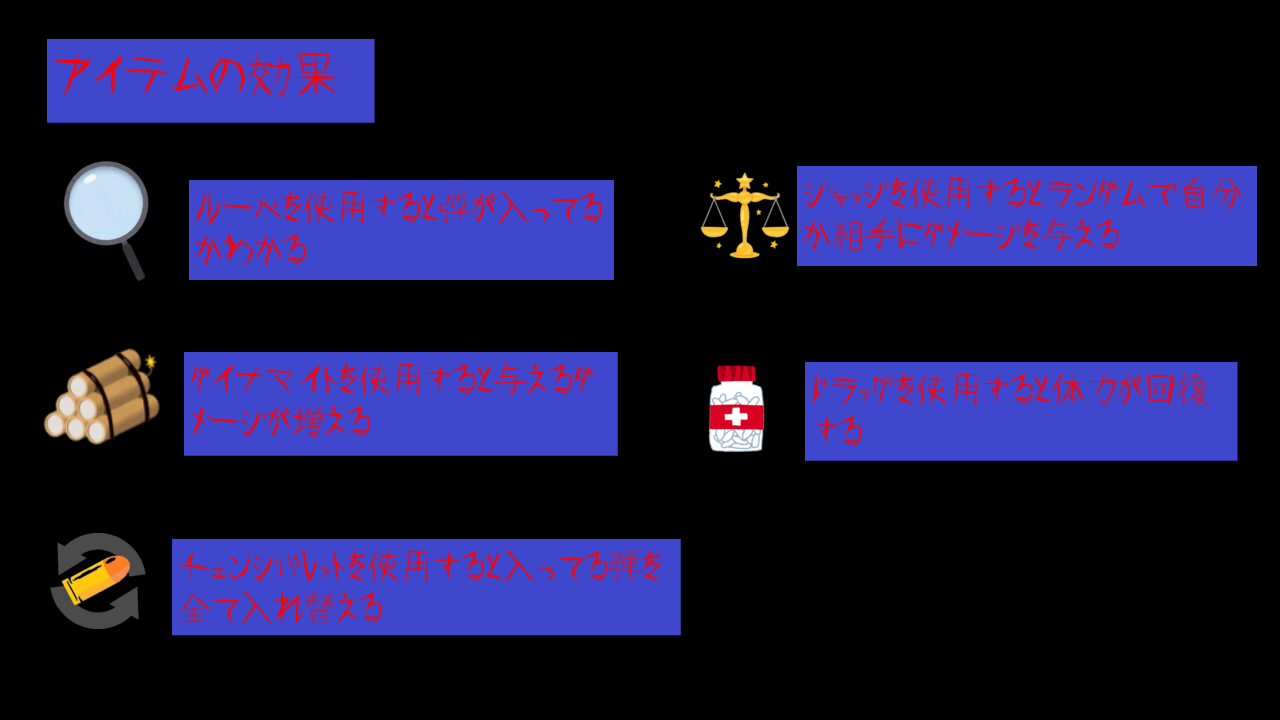
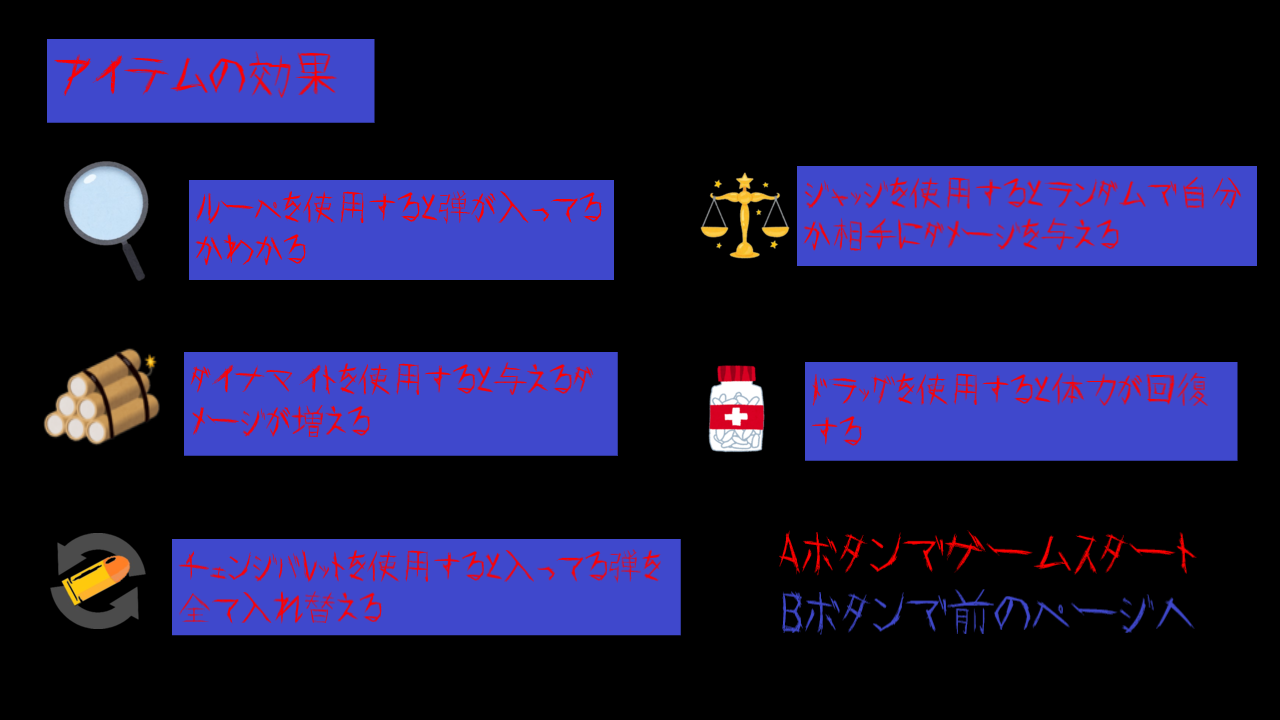
2ページ目のヘルプシーン作成

Changed region(s): [[0.5938, 0.825, 0.9375, 0.8861], [0.5938, 0.7333, 0.875, 0.7944], [0.9062, 0.7333, 0.9375, 0.7944]]

diff --git a/RousianRoulette/HelpScene2.cpp b/RousianRoulette/HelpScene2.cpp
@@ -6,24 +6,25 @@
 #include"Title.h"
 #include "DrawRanking.h"
 
+Title title;
 
-HelpScene::HelpScene()
+HelpScene2::HelpScene2()
 {
-	image = LoadGraph("Resources/images/HelpScene.png");
+	image = LoadGraph("Resources/images/HelpScene2.png");
 	Bgm = LoadSoundMem("Resources/sounds/I like.wav");
-	ASE = LoadSoundMem("Resources/sounds/kettei.mp3");
-	BSE = LoadSoundMem("Resources/sounds/cancel.mp3");
+	//ASE = LoadSoundMem("Resources/sounds/kettei.mp3");
+	//BSE = LoadSoundMem("Resources/sounds/cancel.mp3");
 }
 
-HelpScene::~HelpScene()
+HelpScene2::~HelpScene2()
 {
 	DeleteGraph(image);
 	DeleteSoundMem(Bgm);
-	DeleteSoundMem(ASE);
-	DeleteSoundMem(BSE);
+	//DeleteSoundMem(ASE);
+	//DeleteSoundMem(BSE);
 }
 
-AbstractScene* HelpScene::Update()
+AbstractScene* HelpScene2::Update()
 {
 
 	ChangeVolumeSoundMem(100, Bgm);
@@ -31,22 +32,22 @@ AbstractScene* HelpScene::Update()
 
 	if (PAD_INPUT::OnButton(XINPUT_BUTTON_A) == 1) {
 
-		PlaySoundMem(ASE, DX_PLAYTYPE_BACK, FALSE);
+		//PlaySoundMem(ASE, DX_PLAYTYPE_BACK, FALSE);
+		return new GameMain();
 		StopSoundMem(Bgm);
-		return new HelpScene2();
 	}
 	else if (PAD_INPUT::OnButton(XINPUT_BUTTON_B) == 1)
 	{
-		PlaySoundMem(BSE, DX_PLAYTYPE_BACK, FALSE);
+		//PlaySoundMem(BSE, DX_PLAYTYPE_BACK, FALSE);
+		return new HelpScene();
 		StopSoundMem(Bgm);
-		return new Title();
 
 	}
 
 	return this;
 }
 
-void HelpScene::Draw() const
+void HelpScene2::Draw() const
 {
 	DrawGraph(0, 0, image, FALSE);
 

diff --git a/RousianRoulette/Title.cpp b/RousianRoulette/Title.cpp
@@ -96,12 +96,12 @@ AbstractScene* Title::Update()
 			break;
 			//�����L���O��ʂ�
 		case TITLE_MENU::GAME_RANKING:
-			return new  DrawRankingScene(100);
+			return new  HelpScene();
 			StopSoundMem(TitleBgm);
 			break;
 			//�w���v���
 		case TITLE_MENU::GAME_HELP:
-			return new HelpScene();
+			return new DrawRankingScene(0);
 			StopSoundMem(TitleBgm);
 			break;
 			//�G���h��ʂ�

diff --git a/RousianRoulette/HelpScene2.h b/RousianRoulette/HelpScene2.h
@@ -1,0 +1,20 @@
+#pragma once
+#include "AbstractScene.h"
+class HelpScene2 : public AbstractScene
+{
+private:
+	int image;
+	int Bgm;
+
+	int ASE;
+	int BSE;
+
+public:
+	HelpScene2();
+	~HelpScene2();
+
+public:
+	AbstractScene* Update() override;
+	void Draw()const override;
+
+};
